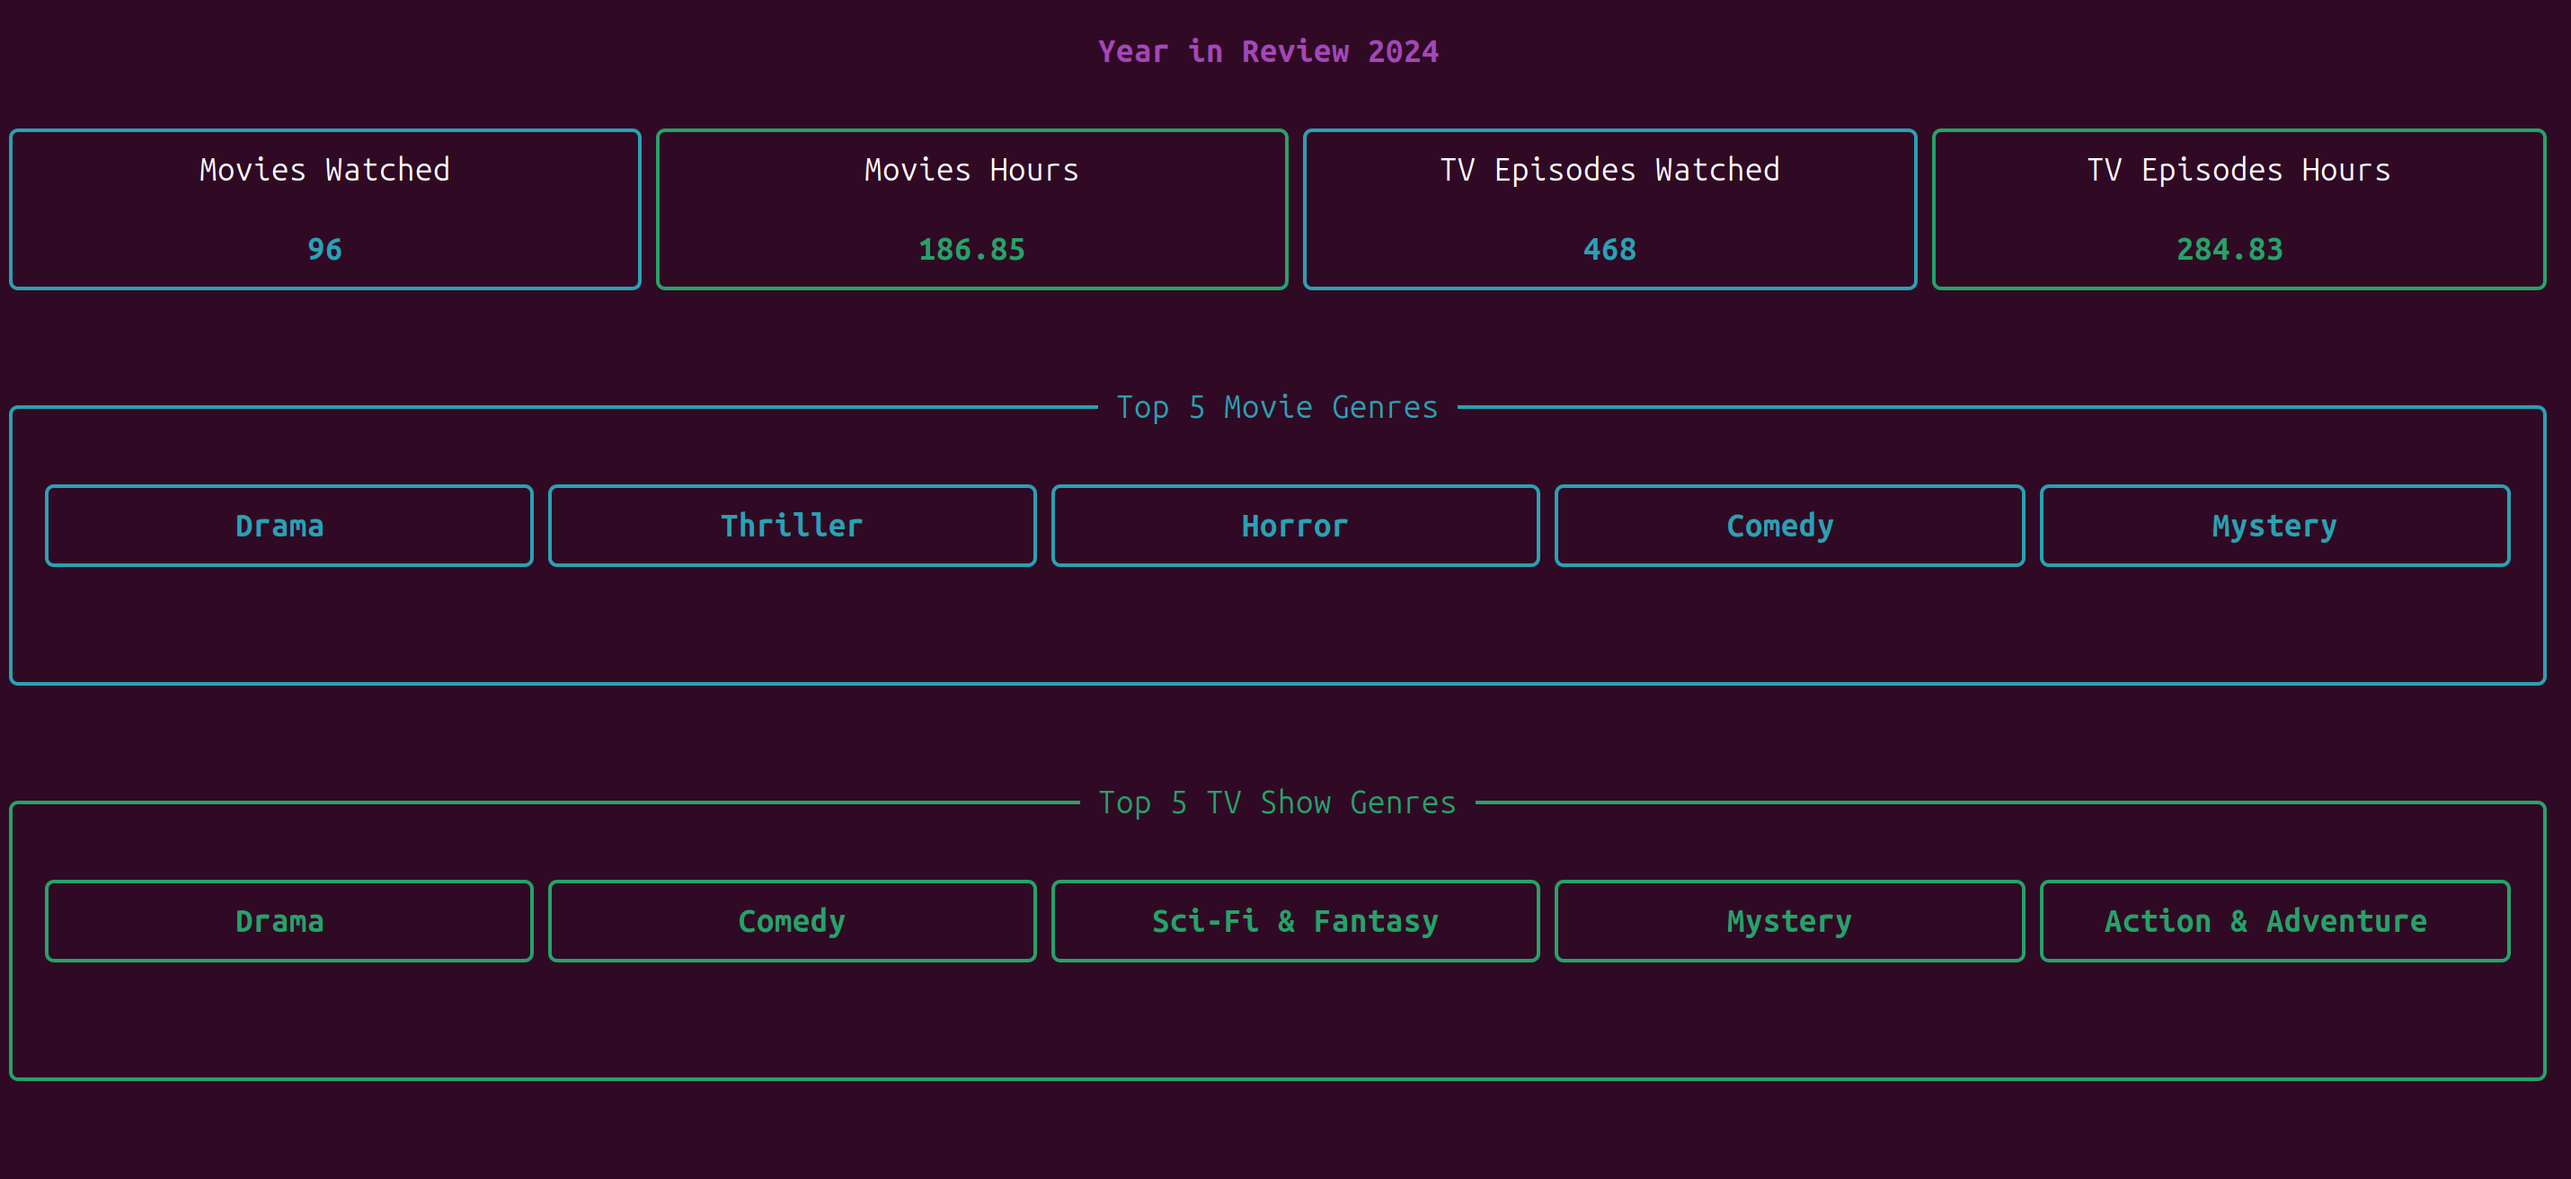
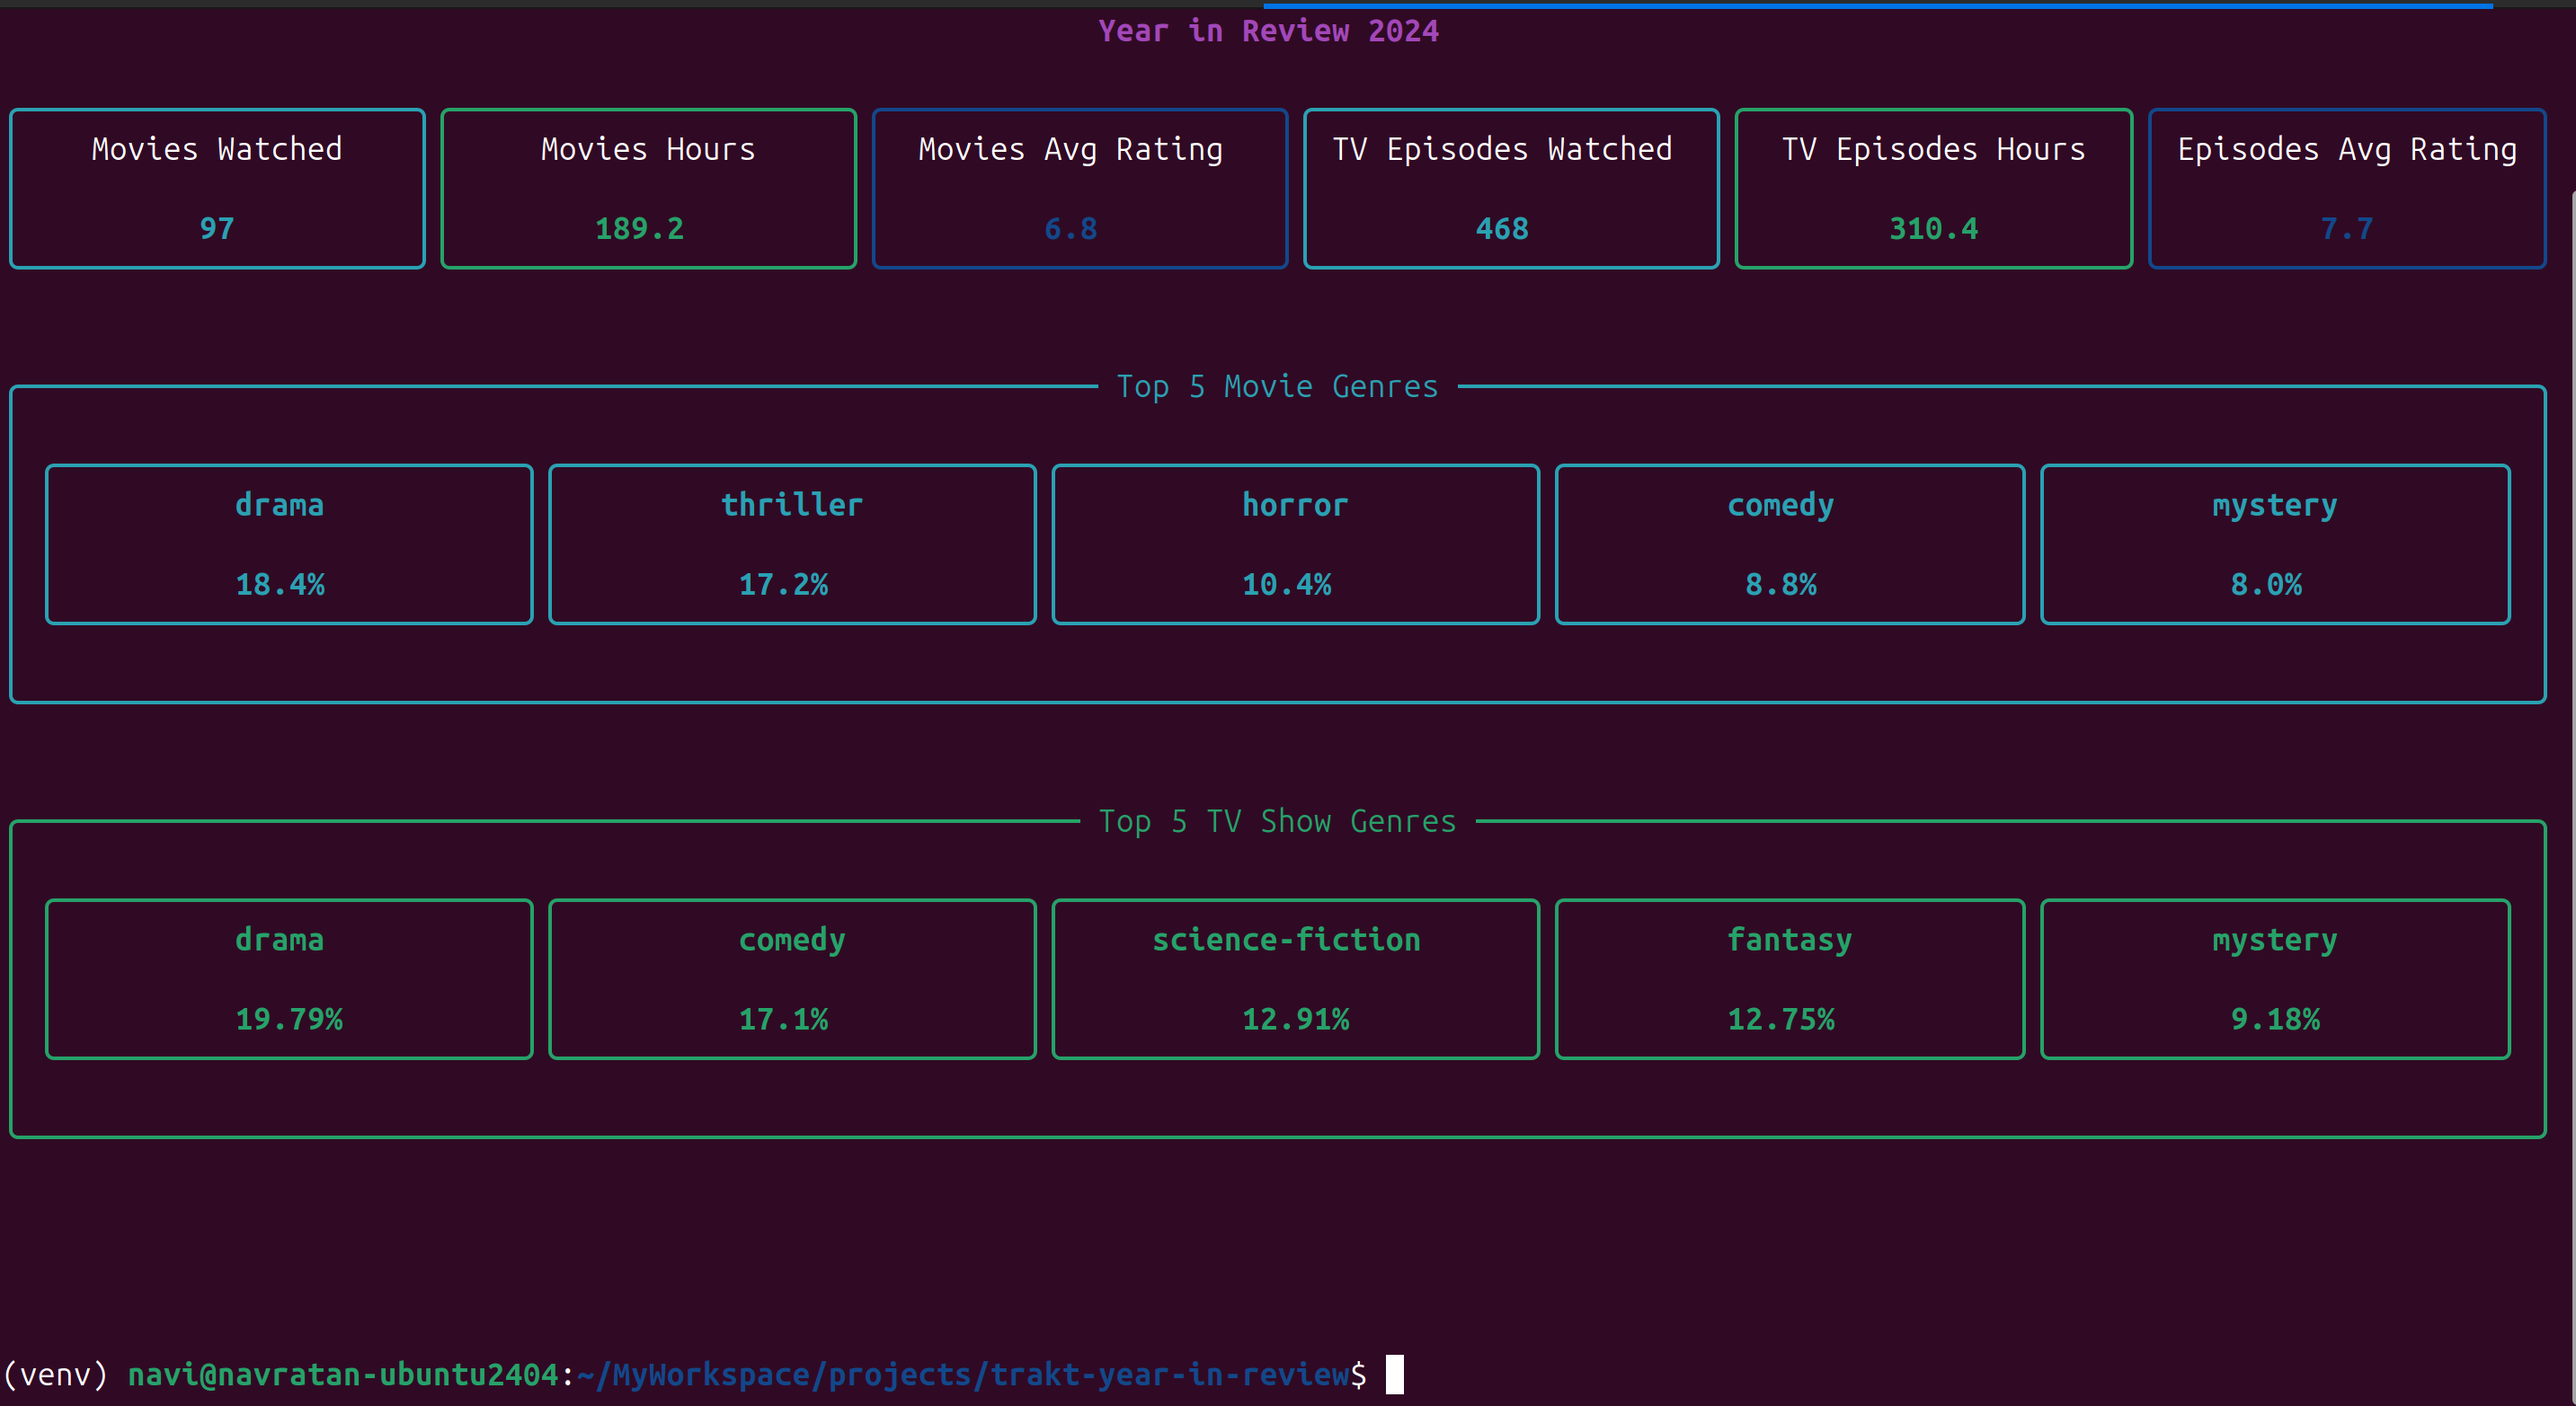
add avg ratings and percentage of genre

diff --git a/generate.py b/generate.py
@@ -1,9 +1,11 @@
 import requests
 from datetime import datetime
+from time import sleep
 from collections import Counter
 import json
 from dotenv import load_dotenv
 import os
+import sys
 
 from rich.console import Console
 from rich.table import Table
@@ -11,8 +13,12 @@ from rich.panel import Panel
 from rich.layout import Layout
 from rich.align import Align
 
-
-load_dotenv()
+if len(sys.argv) != 3:
+    load_dotenv()
+else:
+    os.environ['TRAKT_USER'] = sys.argv[1]
+    os.environ['YEAR'] = sys.argv[2]
+    os.environ['TRAKT_CLIENT_ID'] = sys.argv[3]
 
 # Trakt API configuration
 TRAKT_CLIENT_ID = os.getenv('TRAKT_CLIENT_ID')
@@ -23,9 +29,7 @@ TRAKT_HEADERS = {
     'trakt-api-key': TRAKT_CLIENT_ID
 }
 
-# TMDB API configuration
-TMDB_API_KEY = os.getenv('TMDB_API_KEY')
-TMDB_API_BASE_URL = 'https://api.themoviedb.org/3'
+username = os.getenv('TRAKT_USER')
 
 year=os.getenv('YEAR')
 
@@ -39,68 +43,81 @@ def fetch_trakt_history(username, start_date, end_date):
     response = requests.get(url, headers=TRAKT_HEADERS, params=params)
     return response.json()
 
-def get_tmdb_movie_details(tmdb_id):
-    url = f"{TMDB_API_BASE_URL}/movie/{tmdb_id}"
-    params = {'api_key': TMDB_API_KEY}
-    response = requests.get(url, params=params)
+def get_movie_details(id):
+    url = f"{TRAKT_API_BASE_URL}/movies/{id}"
+    params = {'extended': 'full'}
+    response = requests.get(url, headers=TRAKT_HEADERS, params=params)
     data = response.json()
 
-    return data.get('runtime', 0), data.get('genres', [])
+    return data.get('runtime', 0), data.get('genres', []), data.get('rating', 0)
 
-def get_tmdb_episode_details(show_tmdb_id, season_number, episode_number):
-    url = f"{TMDB_API_BASE_URL}/tv/{show_tmdb_id}/season/{season_number}/episode/{episode_number}"
-    params = {'api_key': TMDB_API_KEY}
-    response = requests.get(url, params=params)
+def get_episode_details(show_id, season_number, episode_number):
+    url = f"{TRAKT_API_BASE_URL}/shows/{show_id}/seasons/{season_number}/episodes/{episode_number}"
+    params = {'extended': 'full'}
+    response = requests.get(url, headers=TRAKT_HEADERS, params=params)
     data = response.json()
 
-    show_details_url = f"{TMDB_API_BASE_URL}/tv/{show_tmdb_id}"
-    params = {'api_key': TMDB_API_KEY}
-    show_detail_response = requests.get(show_details_url, params=params)
+    show_details_url = f"{TRAKT_API_BASE_URL}/shows/{show_id}"
+    params = {'extended': 'full'}
+    show_detail_response = requests.get(show_details_url, headers=TRAKT_HEADERS, params=params)
     show_detail_data = show_detail_response.json()
 
-    return data.get('runtime', 0), show_detail_data.get('genres', [])
+    return data.get('runtime', 0), show_detail_data.get('genres', []), data.get('rating', 0)
 
 def analyze_history(history):
     tv_episodes = 0
     tv_minutes = 0
+    tv_ratings = 0
     tv_genres = Counter()
     movies = 0
     movie_minutes = 0
+    movie_ratings = 0
     movie_genres = Counter()
+    loop_count = 0
 
     for item in history:
         if item['type'] == 'episode':
             tv_episodes += 1
-            show_tmdb_id = item['show'].get('ids', {}).get('tmdb')
+            show_id = item['show'].get('ids', {}).get('trakt')
             season_number = item['episode']['season']
             episode_number = item['episode']['number']
-            if show_tmdb_id:
-                runtime, genres = get_tmdb_episode_details(show_tmdb_id, season_number, episode_number)
+            if show_id:
+                runtime, genres, rating = get_episode_details(show_id, season_number, episode_number)
                 try:
                     tv_minutes += runtime
                 except TypeError:
-                     runtime = 30
-            genre_list = [item['name'] for item in genres]
+                    tv_minutes += 30
+                tv_ratings += rating
+            genre_list = genres
             tv_genres.update(genre_list)
         elif item['type'] == 'movie':
             movies += 1
-            tmdb_id = item['movie'].get('ids', {}).get('tmdb')
-            if tmdb_id:
-                runtime, genres = get_tmdb_movie_details(tmdb_id)
+            id = item['movie'].get('ids', {}).get('trakt')
+            if id:
+                runtime, genres, rating = get_movie_details(id)
                 try:
                     movie_minutes += runtime
                 except TypeError:
-                     runtime = 90
-            genre_list = [item['name'] for item in genres]
+                     movie_minutes += 90
+                movie_ratings += rating
+            genre_list = genres
             movie_genres.update(genre_list)
+        loop_count += 1
+        if loop_count > 99:
+            sleep(10) # To make sure API call rate for Trakt is not breached. It waits for 10 seconds every 100th call
+            loop_count = 0
 
     return {
         'tv_episodes': tv_episodes,
         'tv_hours': round(tv_minutes / 60, 2),
         'top_tv_genres': tv_genres.most_common(5),
+        'tv_genres_total_count': sum(tv_genres.values()),
+        'episodes_average_rating': round(tv_ratings/tv_episodes, 1),
         'movies': movies,
         'movie_hours': round(movie_minutes / 60, 2),
-        'top_movie_genres': movie_genres.most_common(5)
+        'top_movie_genres': movie_genres.most_common(5),
+        'movie_genres_total_count': sum(movie_genres.values()),
+        'movies_average_rating': round(movie_ratings/movies,1)
     }
 
 # Set the date range for 2024
@@ -108,8 +125,7 @@ start_date = datetime(int(year), 1, 1)
 end_date = datetime(int(year), 12, 31)
 
 # Fetch and analyze the history
-username = 'navilg0409'
-print('Generating Year in Review for', year+'...')
+print('Generating Year in Review for', year+'. It may take few minutes depending on your size of history...')
 print("\n")
 history = fetch_trakt_history(username, start_date, end_date)
 with open("trakt-history-"+year+".json", "w") as file:
@@ -125,11 +141,13 @@ year_in_review_stats = {
         "tv_shows": {
             "episodes_watched": stats['tv_episodes'],
             "hours_watched": stats['tv_hours'],
+            "average_rating": stats['episodes_average_rating'],
             "top_genres": [genre for genre, count in stats['top_tv_genres']]
         },
         "movies": {
             "movies_watched": stats['movies'],
             "hours_watched": stats['movie_hours'],
+            "average_rating": stats['movies_average_rating'],
             "top_genres": [genre for genre, count in stats['top_movie_genres']]
         }
     }
@@ -150,26 +168,30 @@ cards_table.add_column(justify="center", ratio=1)
 cards_table.add_column(justify="center", ratio=1)
 cards_table.add_column(justify="center", ratio=1)
 cards_table.add_column(justify="center", ratio=1)
+cards_table.add_column(justify="center", ratio=1)
+cards_table.add_column(justify="center", ratio=1)
 
 cards_table.add_row(
     Panel("Movies Watched\n\n[bold cyan]"+str(stats['movies'])+"[/bold cyan]", border_style="cyan"),
     Panel("Movies Hours\n\n[bold green]"+str(stats['movie_hours'])+"[/bold green]", border_style="green"),
+    Panel("Movies Avg Rating\n\n[bold blue]"+str(stats['movies_average_rating'])+"[/bold blue]", border_style="blue"),
     Panel("TV Episodes Watched\n\n[bold cyan]"+str(stats['tv_episodes'])+"[/bold cyan]", border_style="cyan"),
     Panel("TV Episodes Hours\n\n[bold green]"+str(stats['tv_hours'])+"[/bold green]", border_style="green"),
+    Panel("Episodes Avg Rating\n\n[bold blue]"+str(stats['episodes_average_rating'])+"[/bold blue]", border_style="blue")
 )
 
 
 # Function to create genre rows
-def create_genre_row(genres, color):
+def create_genre_row(top_movie_genres_stat, total_count, color):
     genre_row = Table.grid(expand=True)
-    for genre in genres:
+    for genre, count in top_movie_genres_stat:
         genre_row.add_column(justify="center", ratio=1)
-    genre_row.add_row(*[Panel(f"[bold {color}]{genre}[/bold {color}]", border_style=color, padding=(0, 2)) for genre in genres])
+
+    genre_row.add_row(*[Panel(f"[bold {color}]{genre}\n\n{round(100*count/total_count, 2)}%[/bold {color}]", border_style=color, padding=(0, 2)) for genre, count in top_movie_genres_stat])
     return genre_row
 
 # Top 5 Movie Genres Section
-movie_genres = ["Action", "Comedy", "Drama", "Sci-Fi", "Thriller"]
-movie_genres_row = create_genre_row([genre for genre, count in stats['top_movie_genres']], "bold cyan")
+movie_genres_row = create_genre_row(stats['top_movie_genres'], stats['movie_genres_total_count'], "bold cyan")
 
 movie_genres_section = Panel(
     movie_genres_row,
@@ -179,8 +201,7 @@ movie_genres_section = Panel(
 )
 
 # Top 5 TV Show Genres Section
-tv_genres = ["Drama", "Fantasy", "Reality", "Mystery", "Animation"]
-tv_genres_row = create_genre_row([genre for genre, count in stats['top_tv_genres']], "bold green")
+tv_genres_row = create_genre_row(stats['top_tv_genres'], stats['tv_genres_total_count'], "bold green")
 
 tv_genres_section = Panel(
     tv_genres_row,
@@ -195,9 +216,9 @@ layout.split_column(
     Layout(heading, size=3),
     Layout(cards_table, size=5),
     Layout("\n\n", size=2),
-    Layout(movie_genres_section, size=8),
+    Layout(movie_genres_section, size=9),
     Layout("\n\n", size=2),
-    Layout(tv_genres_section, size=8),
+    Layout(tv_genres_section, size=9),
 )
 
 # Print Layout

diff --git a/README.md b/README.md
@@ -4,6 +4,26 @@ Generate year in review from Trakt history
 
 ## Steps
 
+1. Create `.env` file from `.env.example` file
+
+```bash
+cp .env.example .env
+```
+
+2. Update trakt user name, trakt client id and year in `.env` file
+
+3. Run below command on full terminal screen
+
+```bash
+python generate.py
+```
+
+4. Alternatively, You can also pass trakt user name, year and client id in command line argument
+
+```bash
+python generate.py user_id 2024 trakt_client_id
+```
+
 ## Screenshots
 
 ![](Screenshot.png)
